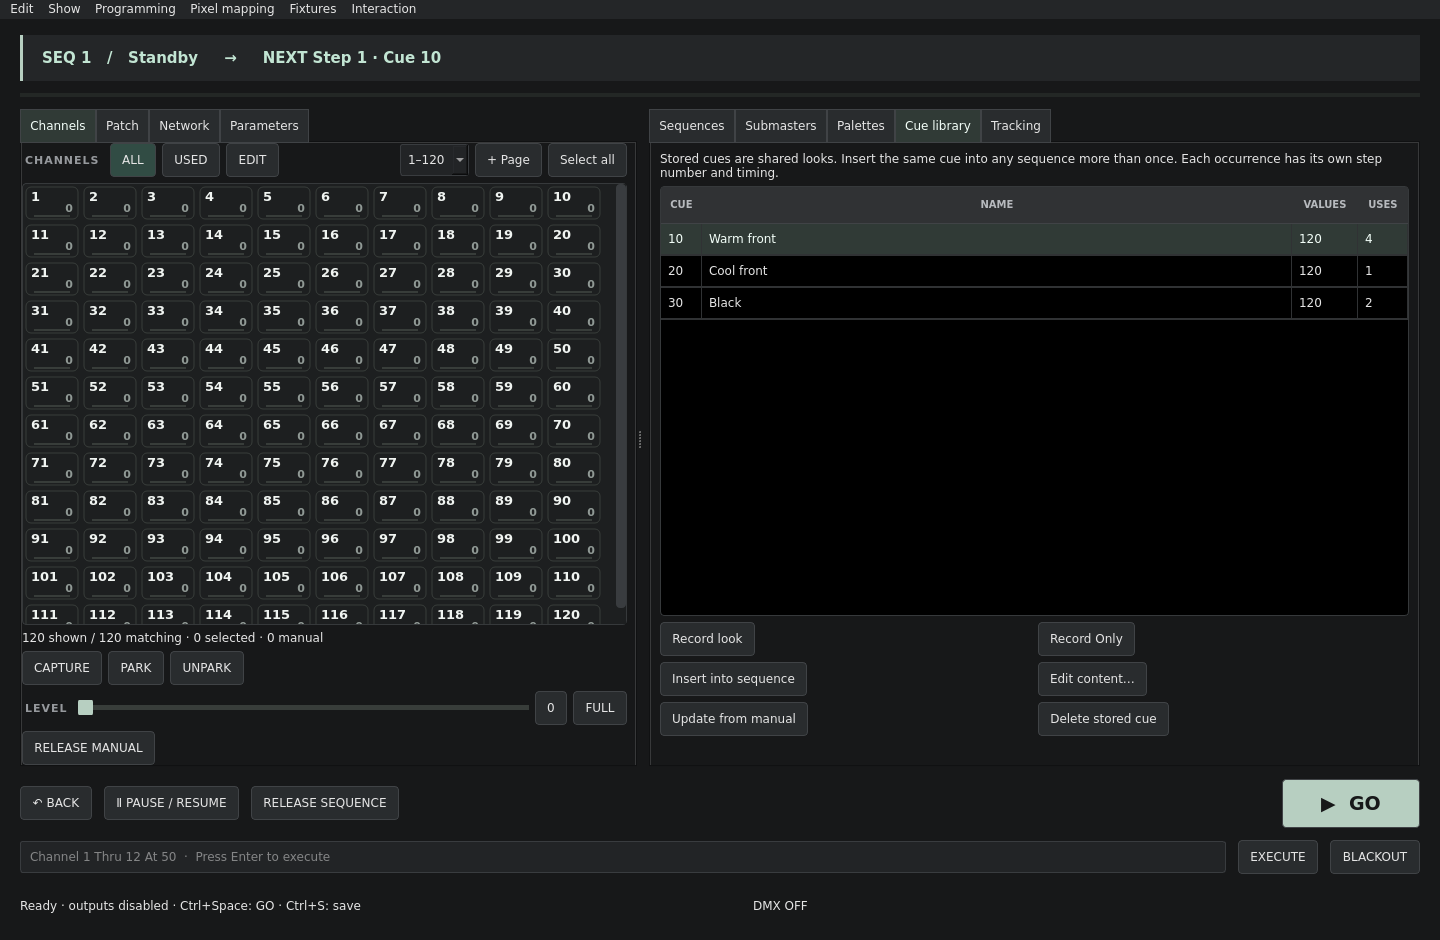
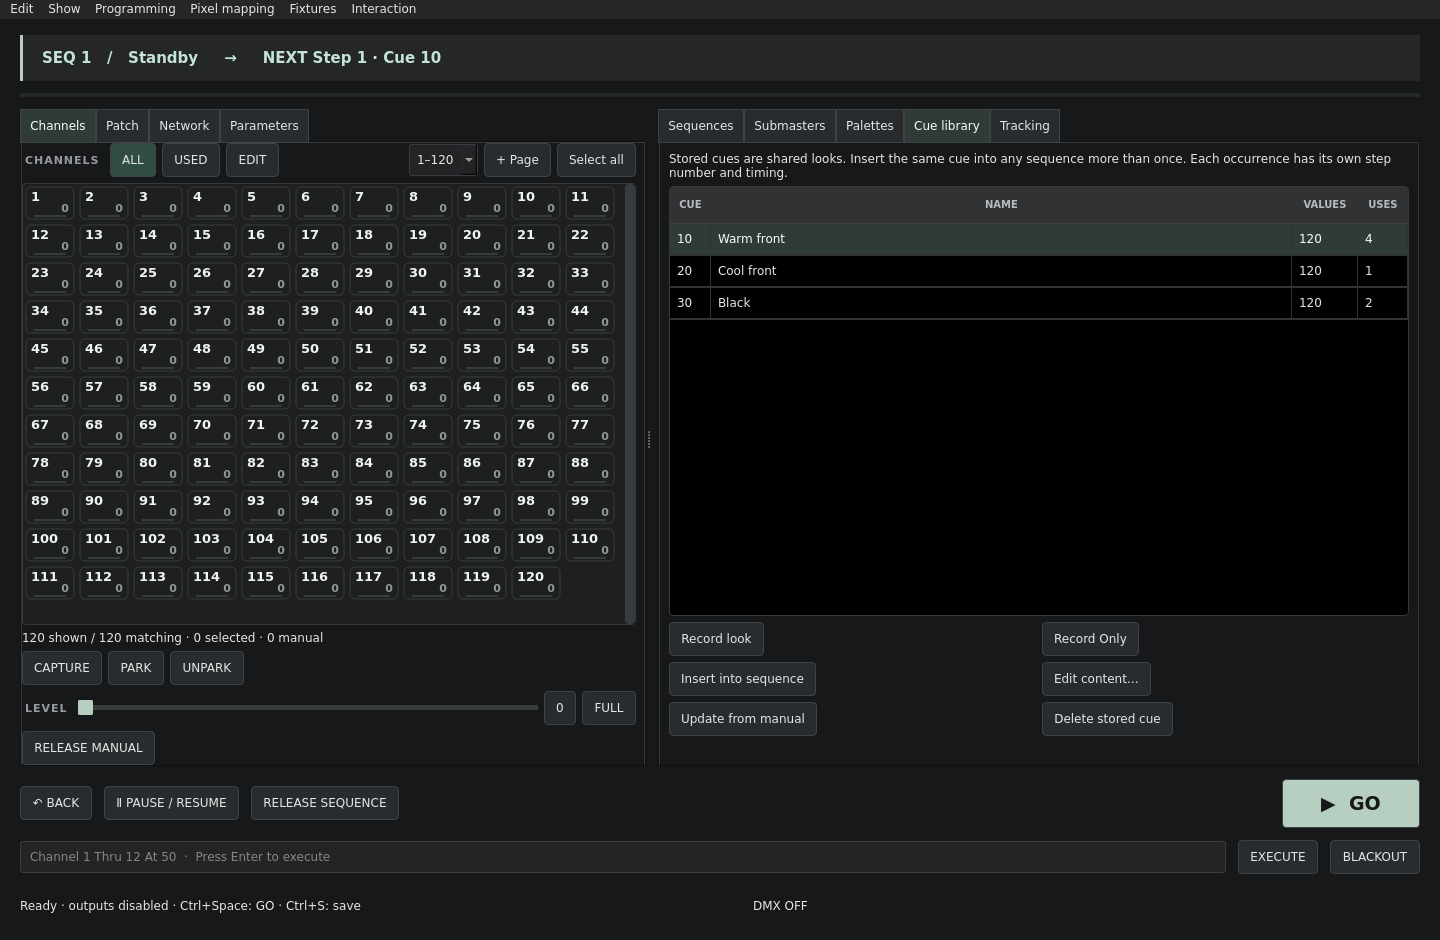
Keep all 120 channels visible in the default workspace

Changed region(s): [[0.0312, 0.1234, 0.9688, 0.8021], [0.7188, 0.6787, 0.8125, 0.7713], [0.0625, 0.6479, 0.0938, 0.6787]]

diff --git a/tests/ui_test.cpp b/tests/ui_test.cpp
@@ -67,6 +67,11 @@ class UiTests : public QObject {
     void balancedButtonLayout() {
         QFETCH(QSize, windowSize); Console window; window.resize(windowSize); window.show(); QCoreApplication::processEvents();
         auto record = window.findChild<QPushButton *>("recordButton"), insert = window.findChild<QPushButton *>("insertCueButton"), next = window.findChild<QPushButton *>("setNextButton");
+        if (windowSize == QSize(1440, 940)) {
+            QTest::qWait(50);
+            auto channels = window.findChild<QListWidget *>("channelList");
+            QVERIFY(channels->viewport()->rect().contains(channels->visualItemRect(channels->item(119))));
+        }
         QVERIFY(record->height() >= 32); QVERIFY(record->height() <= 42);
         QCOMPARE(insert->mapTo(&window, QPoint()).y(), next->mapTo(&window, QPoint()).y());
         QVERIFY(record->mapTo(&window, QPoint()).y() < insert->mapTo(&window, QPoint()).y());

diff --git a/src/main.cpp b/src/main.cpp
@@ -1040,7 +1040,7 @@ class Console : public QMainWindow {
             }
         });
         split->addWidget(cuePanel);
-        split->setSizes({500, 740});
+        split->setSizes({520, 720});
         auto transport = new QHBoxLayout;
         button("↶ BACK", transport, [this] {
             engine.back(selectedSequence);
